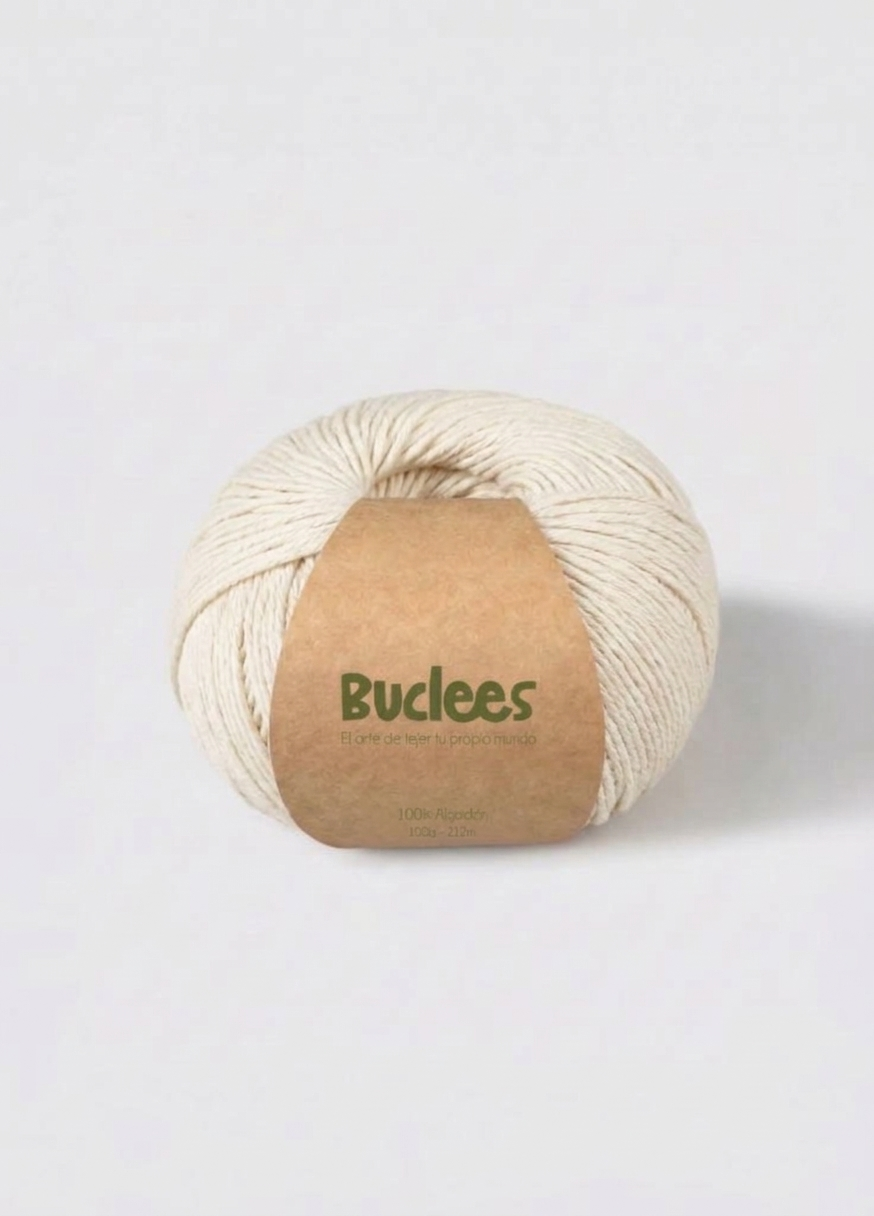
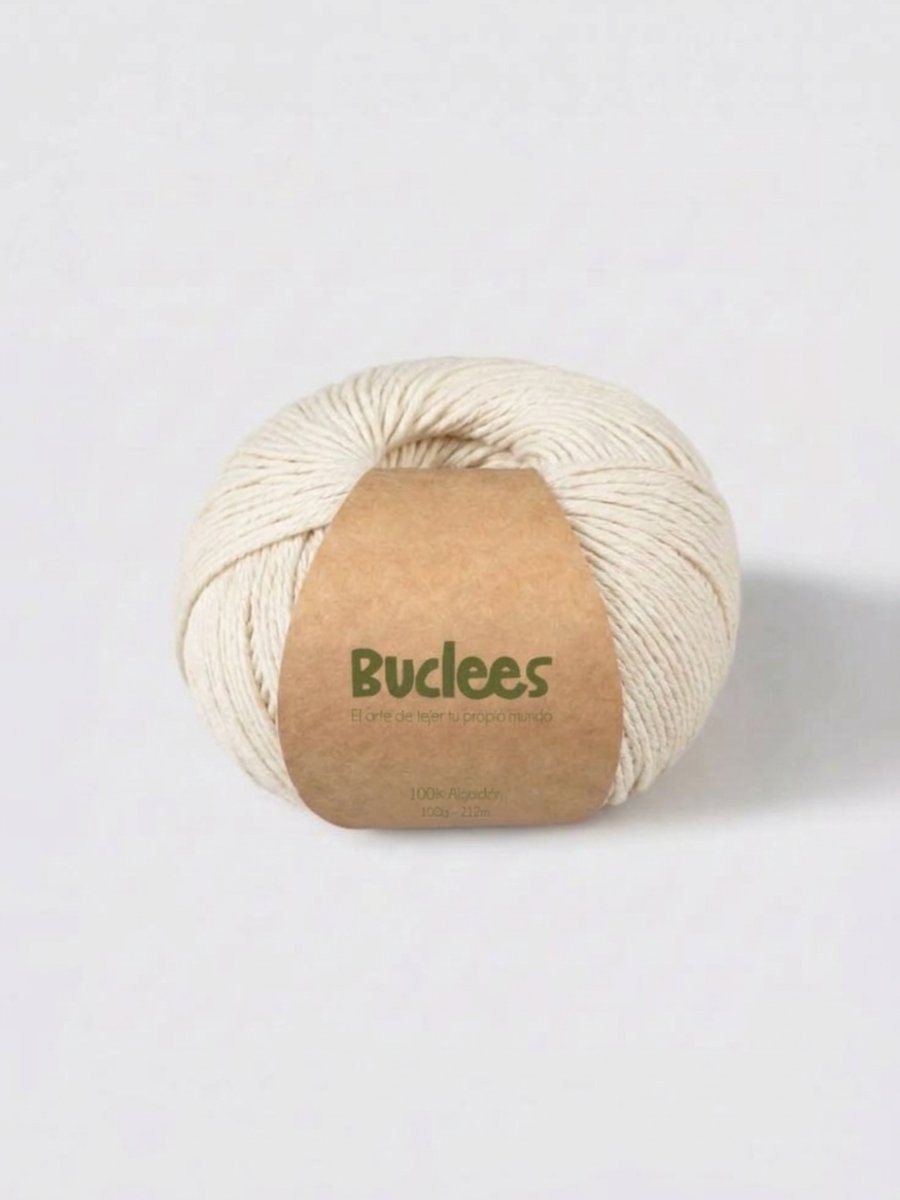
Tienda: fotos normalizadas a 900x1200 con el ovillo a la misma escala y marco fijo 3:4
Todas las tarjetas miden lo mismo; la foto ya no puede estirar la tarjeta.

diff --git a/frontend/src/components/ProductCard.vue b/frontend/src/components/ProductCard.vue
@@ -75,9 +75,11 @@ const MAX_SWATCHES = 5;
   outline-offset: 2px;
 }
 
-/* Hueco vertical 3:4, como las fotos de la autora. Con foto o con dibujo mide lo mismo,
-   así los títulos de una fila quedan alineados. */
+/* Marco fijo 3:4 para todas las tarjetas, con foto o con dibujo: la imagen no puede cambiar su altura
+   y los títulos de una fila quedan alineados. Las fotos se preparan a 900 × 1200 (3:4) con el ovillo
+   centrado y a la misma escala, así que llenan el marco sin recortar el ovillo. */
 .product__media {
+  position: relative;
   display: grid;
   place-items: center;
   aspect-ratio: 3 / 4;
@@ -90,17 +92,16 @@ const MAX_SWATCHES = 5;
   max-width: 260px;
 }
 
-/* Con foto: la foto ENTERA (contain, sin recortar el ovillo) sobre blanco, que es el fondo de las fotos. */
 .product__media.has-photo {
   padding: 0;
-  background: #fff;
 }
 
 .product__img {
-  display: block;
+  position: absolute;
+  inset: 0;
   width: 100%;
   height: 100%;
-  object-fit: contain;
+  object-fit: cover;
 }
 
 .product__body {

diff --git a/frontend/src/views/ProductView.vue b/frontend/src/views/ProductView.vue
@@ -208,24 +208,24 @@ function addToCart() {
 }
 
 /* Con foto: la foto ocupa la caja (vertical, como las de la autora), sin el fondo crema alrededor. */
-/* Con foto: la foto ENTERA (contain, sin recortar el ovillo) sobre blanco, que es el fondo de las fotos.
-   En escritorio, vertical 3:4 como las fotos; en el móvil, cuadrada para que el botón de comprar no quede tan abajo. */
+/* Con foto: marco fijo 3:4, igual que las tarjetas (las fotos miden 900 × 1200).
+   En el móvil, como mucho 300px de ancho para que el color y el botón de comprar se vean pronto. */
 .item__media.has-photo {
   padding: 0;
   overflow: hidden;
-  background: #fff;
 }
 
 .item__img {
   display: block;
   width: 100%;
   aspect-ratio: 3 / 4;
-  object-fit: contain;
+  object-fit: cover;
 }
 
 @media (max-width: 859px) {
-  .item__img {
-    aspect-ratio: 1;
+  .item__media.has-photo {
+    max-width: 300px;
+    margin: 0 auto;
   }
 }
 

diff --git a/CLAUDE.md b/CLAUDE.md
@@ -217,7 +217,7 @@ El diseño visual lo hace la autora en Figma. La carpeta `design/` es la **fuent
 - **Fotos por color (migración 013, 01/11/2026):** `product_variants.image_url`. La autora prepara una foto por color de cada ovillo. La ficha muestra la foto del color elegido; si no tiene, la del producto, y si tampoco, el ovillo SVG. La tarjeta usa la primera foto de un color con stock. Las fotos del seed están en `frontend/public/productos/` (se sirven en `/productos/…`). El Algodón Fingering (4), el Algodón DK (5) y la Chenilla Bulky (3) tienen ya foto en todos sus colores. Para que coincidieran con las fotos se renombraron variantes: DK Crudo → Beige; Chenilla Amarillo → Mostaza y Gris → Azul (sigue con stock 0 para enseñar un color agotado). `seed:update` aplica los cambios de nombre sin crear colores repetidos. Las fotos se convierten a JPG de 900 px (calidad 0,85) con el canvas del navegador (script `convert.mjs` en el scratchpad de Claude). El color de la muestra es la media de los píxeles iluminados (50-80 % de luminosidad) de la parte alta del ovillo, encima de la etiqueta. `seed:update` añade las variantes nuevas al final y, si trae foto, pone la foto y su color, sin tocar el stock. Las originales de la autora están en `img/` (fuera de Git); en el proyecto se copian con nombres sin espacios (`algodon-fingering-lavanda.jpg`). Pendiente: la etiqueta de la foto dice 100 g · 212 m y el producto, 400 m / 100 g (preguntado a la autora).
   - **Imágenes generadas con IA (Gemini), aceptadas por la autora el 01/11/2026 si se declaran en la memoria:** `frontend/public/fotos/ovillos-torre-ia.jpg` (cabecera del inicio sin sesión; con sesión sigue el dibujo `YarnBalls`) y `ovillos-composicion-ia.jpg` (banner de la tienda). Su texto alternativo dice "(imagen generada con IA)".
   - `.bc-card` tiene `max-width: 300px`: en las rejillas hay que anularlo (`ProductCard` lo hace).
-  - **Las fotos se ven enteras** (`object-fit: contain` sobre blanco, nunca `cover`): la autora pidió que no se recortaran los ovillos. El hueco es vertical 3:4 en la tarjeta (con dibujo, el mismo alto) y en la ficha de escritorio; en la ficha del móvil, cuadrado. **Formato recomendado a la autora:** 900 × 1200 px (3:4), con el ovillo entero, centrado, a la misma escala y con margen, y un fondo blanco o gris muy claro igual en todas.
+  - **Todas las fotos de producto miden 900 × 1200 (3:4) y se ven en un marco fijo 3:4** (la autora: "todas las imágenes deben tener el mismo tamaño"). El marco no depende de la foto (la imagen va en posición absoluta), así que todas las tarjetas miden igual. Las fotos se normalizan con `normalize.mjs` (scratchpad de Claude, canvas del navegador): detecta la caja del ovillo frente al fondo, lo centra a la misma escala (78 % del ancho u 80 % del alto) y, si el fondo es gris degradado, amplía la foto hasta cubrir el lienzo para que no quede costura; con fondo blanco liso, rellena. Los originales siguen en `img/`. **Formato pedido a la autora para las próximas:** 900 × 1200, con el ovillo entero, centrado, a la misma escala y sobre el mismo fondo claro.
 - **Panel de admin, bloque 5a hecho (01/11/2026): pedidos.**
   - API `/api/admin` (`authRequired` + `adminOnly`: 401 sin sesión, 403 sin rol): `GET /orders?status=`, `GET /orders/:id` (con `next_statuses`) y `PATCH /orders/:id` `{ status }`.
   - **Cambios de estado con un orden fijo** (`NEXT_STATUS` en `order.service.js`): pendiente → pagado o cancelado; pagado → enviado o cancelado; enviado → entregado. Entregado y cancelado son finales. Otro cambio da 409.
